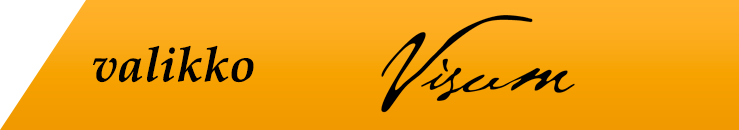
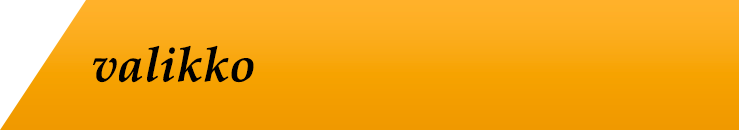
Namespace päivitys

Changed region(s): [[0.498, 0.0923, 0.7781, 0.8615]]

diff --git a/style.css b/style.css
@@ -903,7 +903,7 @@ ul.sub-menu a {
   transition: all 0.3s; }
 
 .current_page_item > a, .current_menu_item > a {
-  background: #F39D00;
+  background: #181818;
   /* Old browsers */ }
 
 .icon-list,
@@ -972,6 +972,14 @@ ul.sub-menu a {
   transition-timing-function: cubic-bezier(0.7, 0, 0.3, 1);
   -webkit-transform: translate3d(0, 0, 0);
   transform: translate3d(0, 0, 0); }
+
+.logo {
+  width: 50px;
+  height: 10px;
+  margin: 0 auto;
+  bottom: 15px;
+  right: 110px;
+  position: fixed; }
 
 /*--------------------------------------------------------------
 # Accessibility

diff --git a/sass/variables-site/_colors.scss b/sass/variables-site/_colors.scss
@@ -21,7 +21,6 @@ $color__text-input: #666;
 $color__text-input-focus: #111;
 $color__link-visited: $color__primary;
 $color__link-hover: $color__primary;
-$color__menu-active: $color__primary;
 $color__text-main: #fff;
 $color__link: $color__text-main;
 
@@ -34,6 +33,7 @@ $color__border-abbr: #666;
 $color__menu-background: #444444;
 $color__menu-background-light: #333333;
 $color__menu-link-hover: #F39D00;
+$color__menu-active: #181818;
 
 $color__dots-border: $color__primary;
 $color__dots-active: $color__primary;

diff --git a/sass/navigation/_menus.scss b/sass/navigation/_menus.scss
@@ -429,3 +429,12 @@ ul.sub-menu a {
 	-webkit-transform: translate3d(0,0,0);
 	transform: translate3d(0,0,0);
 }
+
+.logo {
+    width: 50px;
+    height: 10px;
+    margin: 0 auto;
+    bottom: 15px;
+    right: 110px;
+    position: fixed;
+}

diff --git a/functions.php b/functions.php
@@ -272,7 +272,7 @@ require get_template_directory() . '/inc/jetpack.php';
         $args = array(
             'id'            => 'menu-sidebar',
             'description'   => 'Ensimmäinen sivupalkki',
-            'name'          => __( 'Menu Right', 'istand' ),
+            'name'          => __( 'Menu Right', 'visum' ),
             'class'         => 'sidebar-widget',
             'before_title'  => '<h3>',
             'after_title'   => '</h3>',
@@ -296,7 +296,7 @@ require get_template_directory() . '/inc/jetpack.php';
         $args = array(
             'id'            => 'menu-sidebar-2',
             'description'   => 'Toinen sivupalkki',
-            'name'          => __( 'Menu Right 2', 'istand' ),
+            'name'          => __( 'Menu Right 2', 'visum' ),
             'class'         => 'sidebar-widget-2',
             'before_title'  => '<h3>',
             'after_title'   => '</h3>',
@@ -312,6 +312,158 @@ require get_template_directory() . '/inc/jetpack.php';
 
     }
 
+    ///////////////////////////////////////
+	// Register Tuote Post Type
+	///////////////////////////////////////
+
+    if ( ! function_exists('tuote_post_type') ) {
+
+    function tuote_post_type() {
+
+        $labels = array(
+            'name'                => _x( 'Tuotteet', 'Post Type General Name', 'visum' ),
+            'singular_name'       => _x( 'Tuote', 'Post Type Singular Name', 'visum' ),
+            'menu_name'           => __( 'Tuote', 'visum' ),
+            'parent_item_colon'   => __( 'Parent Item:', 'visum' ),
+            'all_items'           => __( 'Kaikki tuotteet', 'visum' ),
+            'view_item'           => __( 'Katsele tuotetta', 'visum' ),
+            'add_new_item'        => __( 'Lisää uusi tuote', 'visum' ),
+            'add_new'             => __( 'Lisää uusi', 'visum' ),
+            'edit_item'           => __( 'Muokkaa tuotetta', 'visum' ),
+            'update_item'         => __( 'Päivitä tuote', 'visum' ),
+            'search_items'        => __( 'Hae tuotteita', 'visum' ),
+            'not_found'           => __( 'Ei löydy', 'visum' ),
+            'not_found_in_trash'  => __( 'Ei löydy roskakorista', 'visum' ),
+        );
+        $args = array(
+            'label'               => __( 'tuote', 'visum' ),
+            'description'         => __( 'Tuotteet', 'visum' ),
+            'labels'              => $labels,
+            'supports'            => array( 'title', 'editor', 'thumbnail', 'comments'),
+            'taxonomies'          => array( 'category', 'tayte' ),
+            'hierarchical'        => false,
+            'public'              => true,
+            'show_ui'             => true,
+            'show_in_menu'        => true,
+            'show_in_nav_menus'   => true,
+            'show_in_admin_bar'   => true,
+            'menu_position'       => 5,
+            'can_export'          => true,
+            'has_archive'         => true,
+            'exclude_from_search' => false,
+            'publicly_queryable'  => true,
+            'capability_type'     => 'page',
+        );
+        register_post_type( 'tuote', $args );
+
+    }
+
+    // Hook into the 'init' action
+    add_action( 'init', 'tuote_post_type', 0 );
+        
+    }
+
+    ///////////////////////////////////////
+	// Register Ohjelma Post Type
+	///////////////////////////////////////
+
+    if ( ! function_exists('ohjelma_post_type') ) {
+
+    function ohjelma_post_type() {
+
+        $labels = array(
+            'name'                => _x( 'Ohjelmat', 'Post Type General Name', 'visum' ),
+            'singular_name'       => _x( 'Ohjelma', 'Post Type Singular Name', 'visum' ),
+            'menu_name'           => __( 'Ohjelma', 'visum' ),
+            'parent_item_colon'   => __( 'Parent Item:', 'visum' ),
+            'all_items'           => __( 'Kaikki ohjelmat', 'visum' ),
+            'view_item'           => __( 'Katsele ohjelmaa', 'visum' ),
+            'add_new_item'        => __( 'Lisää uusi ohjelma', 'visum' ),
+            'add_new'             => __( 'Lisää uusi', 'visum' ),
+            'edit_item'           => __( 'Muokkaa ohjelmaa', 'visum' ),
+            'update_item'         => __( 'Päivitä ohjelma', 'visum' ),
+            'search_items'        => __( 'Hae ohjelma', 'visum' ),
+            'not_found'           => __( 'Ei löydy', 'visum' ),
+            'not_found_in_trash'  => __( 'Ei löydy roskakorista', 'visum' ),
+        );
+        $args = array(
+            'label'               => __( 'ohjelma_post_type', 'visum' ),
+            'description'         => __( 'Tulevaa ohjelma listaus', 'visum' ),
+            'labels'              => $labels,
+            'supports'            => array( 'title', 'editor', 'thumbnail', ),
+            'taxonomies'          => array( 'category', 'post_tag' ),
+            'hierarchical'        => false,
+            'public'              => true,
+            'show_ui'             => true,
+            'show_in_menu'        => true,
+            'show_in_nav_menus'   => true,
+            'show_in_admin_bar'   => true,
+            'menu_position'       => 5,
+            'can_export'          => true,
+            'has_archive'         => true,
+            'exclude_from_search' => false,
+            'publicly_queryable'  => true,
+            'capability_type'     => 'page',
+        );
+        register_post_type( 'ohjelma_post_type', $args );
+
+    }
+
+    // Hook into the 'init' action
+    add_action( 'init', 'ohjelma_post_type', 0 );
+        
+    }
+
+    ///////////////////////////////////////
+	// Register Mainos Post Type
+	///////////////////////////////////////
+
+    if ( ! function_exists('mainos_post_type') ) {
+
+    function mainos_post_type() {
+
+        $labels = array(
+            'name'                => _x( 'Mainokset', 'Post Type General Name', 'visum' ),
+            'singular_name'       => _x( 'Mainos', 'Post Type Singular Name', 'visum' ),
+            'menu_name'           => __( 'Mainos', 'visum' ),
+            'parent_item_colon'   => __( 'Parent Item:', 'visum' ),
+            'all_items'           => __( 'Kaikki mainokset', 'visum' ),
+            'view_item'           => __( 'Katsele mainosta', 'visum' ),
+            'add_new_item'        => __( 'Lisää uusi mainos', 'visum' ),
+            'add_new'             => __( 'Lisää uusi', 'visum' ),
+            'edit_item'           => __( 'Muokkaa mainosta', 'visum' ),
+            'update_item'         => __( 'Päivitä mainos', 'visum' ),
+            'search_items'        => __( 'Hae mainoksia', 'visum' ),
+            'not_found'           => __( 'Ei löydy', 'visum' ),
+            'not_found_in_trash'  => __( 'Ei löydy roskakorista', 'visum' ),
+        );
+        $args = array(
+            'label'               => __( 'mainos_post_type', 'visum' ),
+            'description'         => __( 'Etusivun mainokset', 'visum' ),
+            'labels'              => $labels,
+            'supports'            => array( 'title', 'editor', 'thumbnail', ),
+            'taxonomies'          => array( 'category', 'post_tag' ),
+            'hierarchical'        => false,
+            'public'              => true,
+            'show_ui'             => true,
+            'show_in_menu'        => true,
+            'show_in_nav_menus'   => true,
+            'show_in_admin_bar'   => true,
+            'menu_position'       => 5,
+            'can_export'          => true,
+            'has_archive'         => true,
+            'exclude_from_search' => false,
+            'publicly_queryable'  => true,
+            'capability_type'     => 'page',
+        );
+        register_post_type( 'mainos', $args );
+
+    }
+
+    // Hook into the 'init' action
+    add_action( 'init', 'mainos_post_type', 0 );
+        
+    }
 
 	///////////////////////////////////////
 	// Advanced Custom Fields 

diff --git a/header.php b/header.php
@@ -42,6 +42,8 @@
                     </nav>
             <?php endif; ?>
                 </div>
+                <img src="<?php echo get_stylesheet_directory_uri(); ?>/img/visum_logo.svg" alt="Visum" class="logo">
+
             </nav>
         </div>
         <span class="menu-button" id="open-button"><img src="<?php header_image(); ?>" height="<?php echo get_custom_header()->height; ?>" width="<?php echo get_custom_header()->width; ?>" alt="" /></span>

diff --git a/template-mainos.php b/template-mainos.php
@@ -28,7 +28,7 @@
                     </div>
               <?php  }
             } else {
-               _e('Sorry, no posts matched your criteria.', 'istand');
+               _e('Sorry, no posts matched your criteria.', 'visum');
             }
 
             // Restore original Post Data

diff --git a/template-ohjelma.php b/template-ohjelma.php
@@ -75,7 +75,7 @@
         </div>
 
         <?php endwhile; else: ?>
-        <p><?php _e('Sorry, no posts matched your criteria.', 'istand'); ?></p>
+        <p><?php _e('Sorry, no posts matched your criteria.', 'visum'); ?></p>
         <?php endif; ?>          
     </div>
 

diff --git a/template-tuote.php b/template-tuote.php
@@ -71,7 +71,7 @@
                 </section>  
         <?php }
         } else {
-           _e('Sorry, no posts matched your criteria.', 'istand');
+           _e('Sorry, no posts matched your criteria.', 'visum');
         }
 
         // Restore original Post Data
